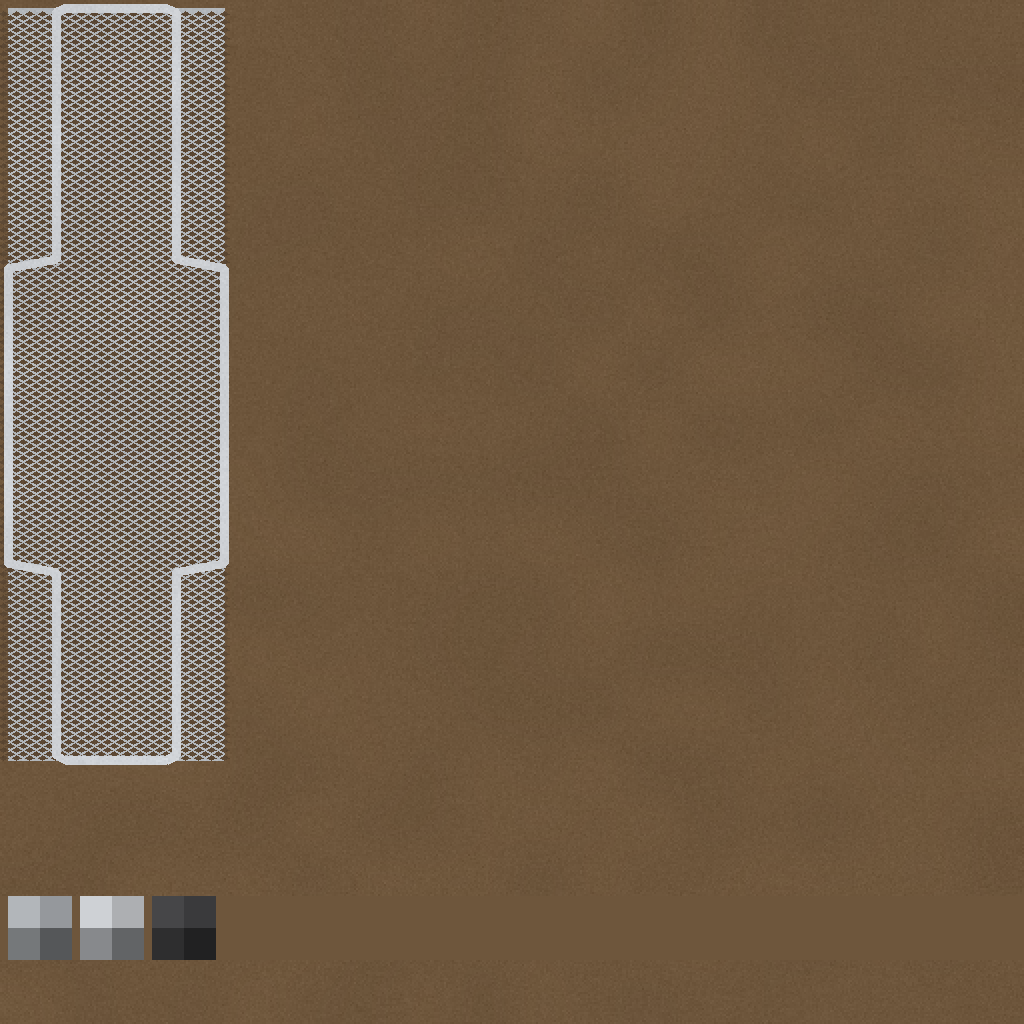
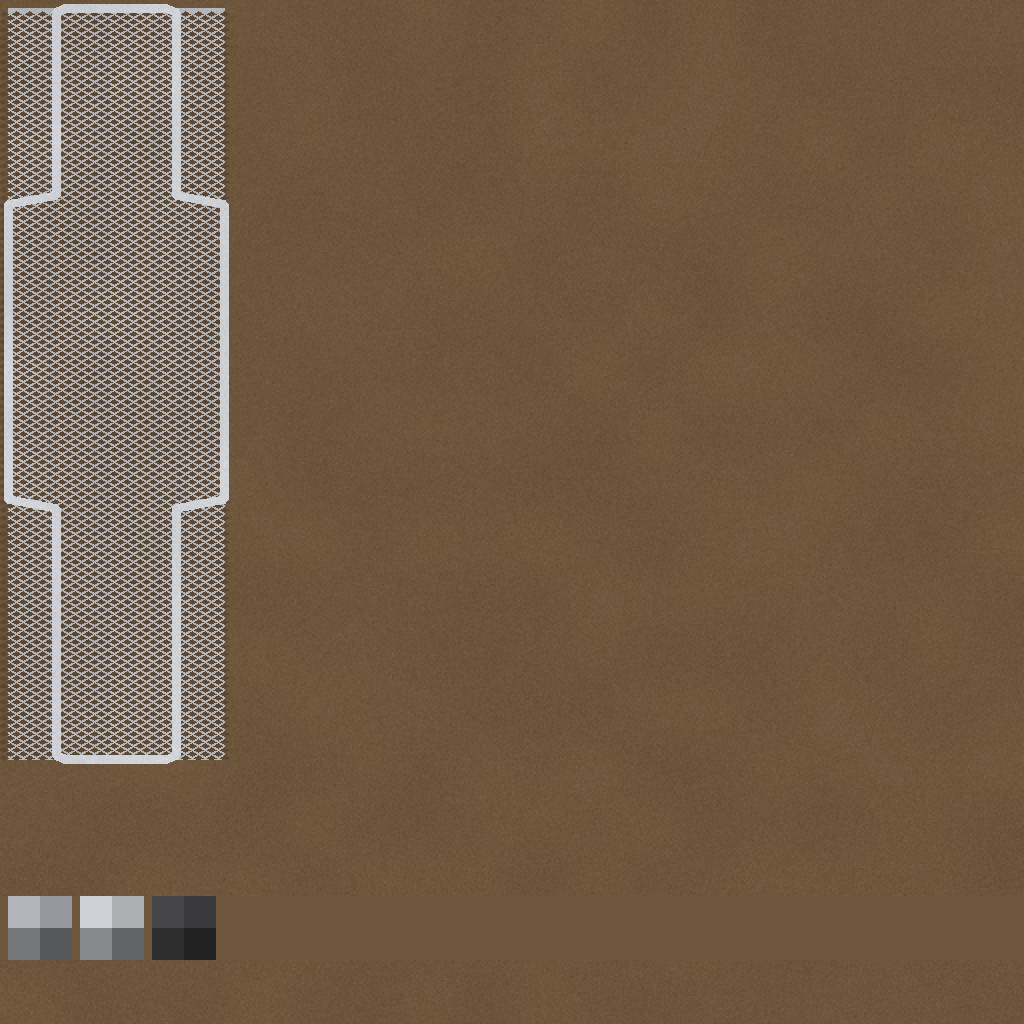
Grates retournées : partie étroite courte devant (côté grille), longue derrière

diff --git a/scripts/props_usland.py b/scripts/props_usland.py
@@ -26,7 +26,7 @@ TEAM = dict(riders=['B.PIGOIS', 'R.OPPLIGER', 'M.SONNERAT', 'E.VIDALENC'], coach
 NAVY, RED, WHITE = (22, 27, 58), (225, 30, 60), (250, 250, 250)
 GOLD = (246, 190, 0)
 ARCH_X = 22.0          # pillar centre, ft from the lane centre: past the 4 ft side walls of the finish jumps (flat ground on SX1-3)
-GRATE = dict(parts=[(1.5, 3.2), (2.7, 3.8), (1.5, 2.4)], gap=2.5, t=0.06)   # cross shape (width, length) ft, from the gate backwards; v13b: gap 0.4 -> 2.5 = fallen gate (2.375 ft) + 0.125, the gate lands against the grate, not on it
+GRATE = dict(parts=[(1.5, 2.4), (2.7, 3.8), (1.5, 3.2)], gap=2.5, t=0.06)   # cross shape (width, length) ft, from the gate backwards; v13b: gap 0.4 -> 2.5 = fallen gate (2.375 ft) + 0.125, the gate lands against the grate, not on it ; v13b: short narrow part at the front (gate), long one at the back (asked)
 
 # ------------------------------------------------------------------ mesh builder
 class Mesh:
